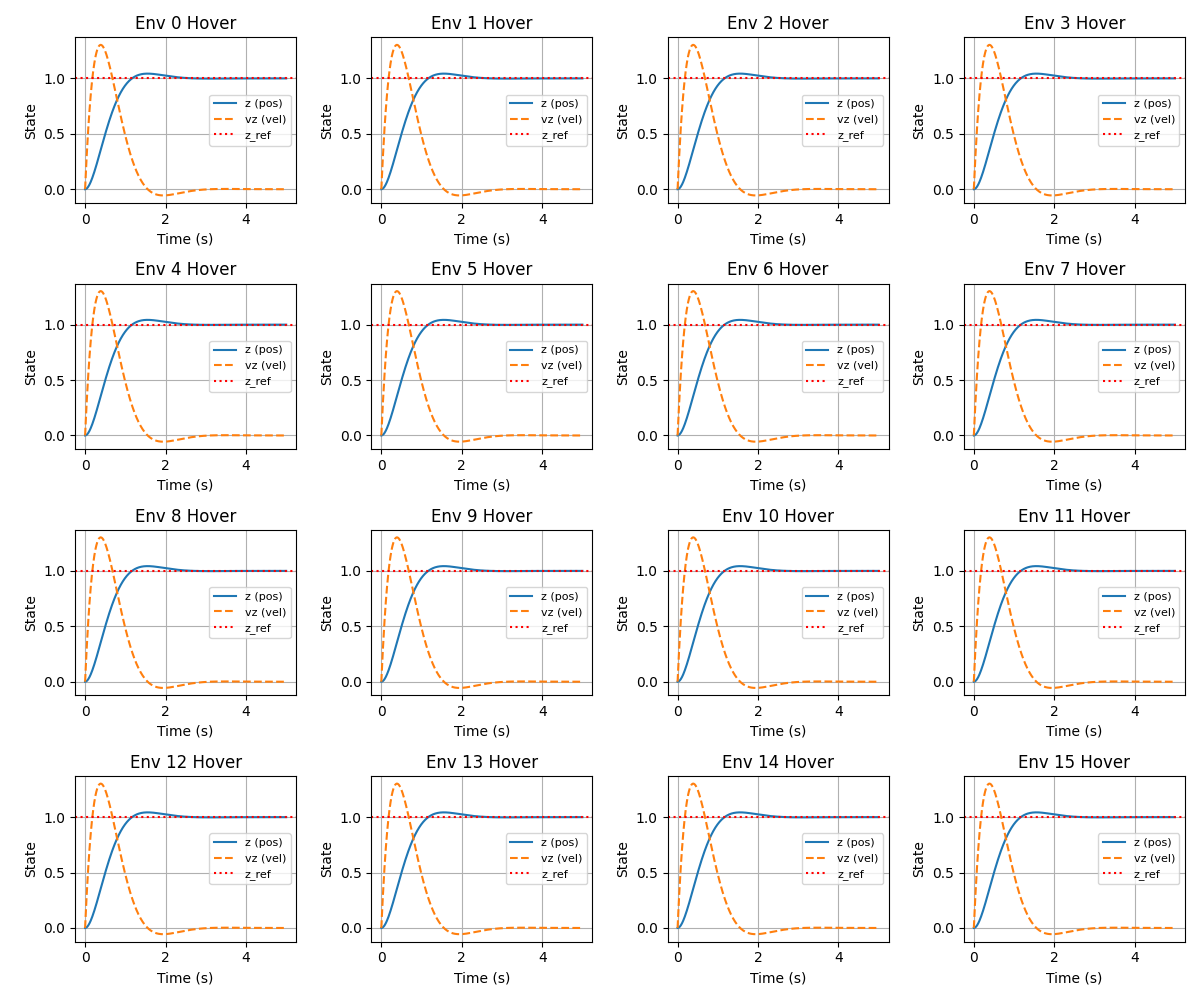
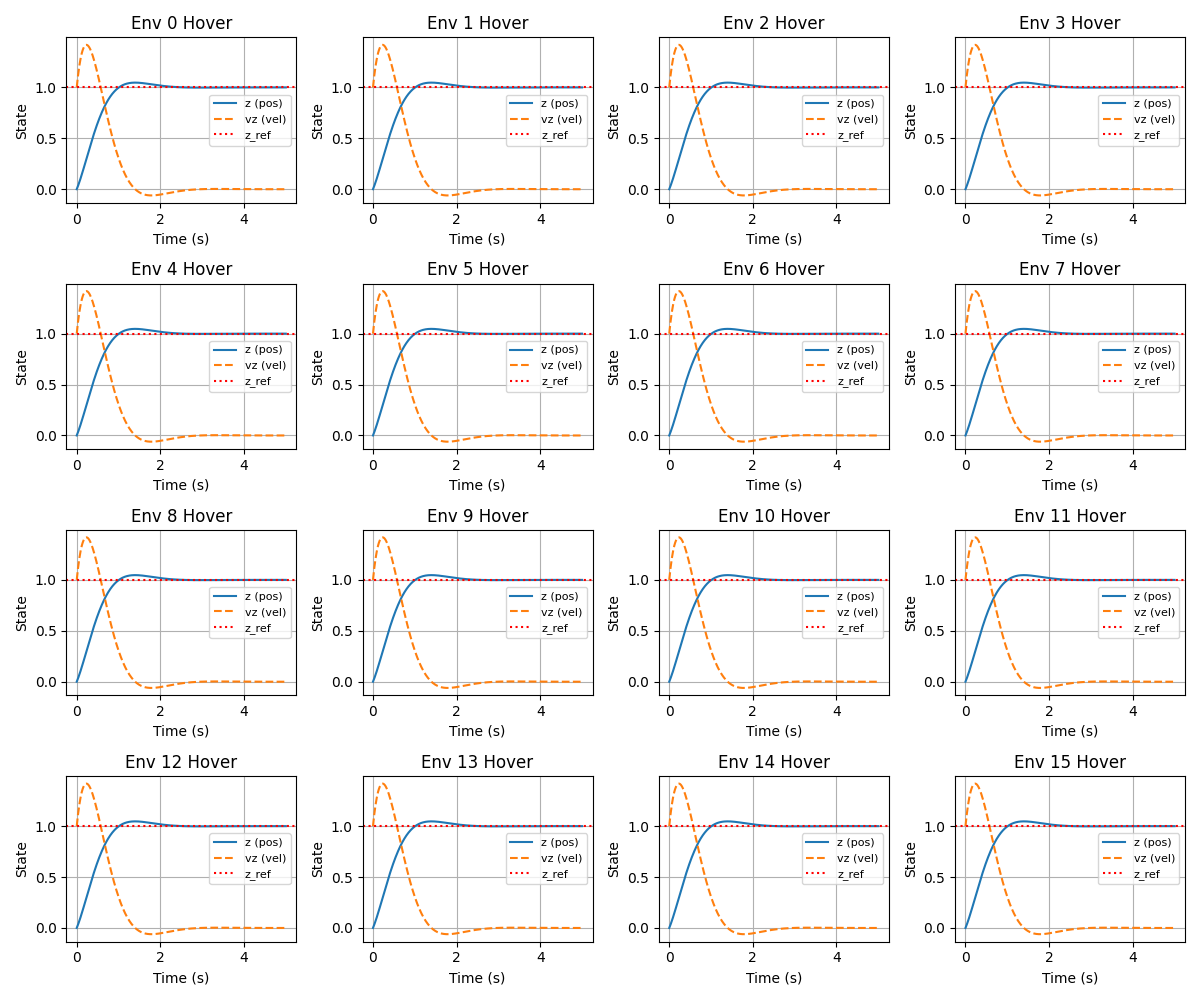
Add UAV geometric tracking example with PID-based control

diff --git a/examples/uav_geometric_tracking.py b/examples/uav_geometric_tracking.py
@@ -1,0 +1,167 @@
+"""
+uav_geometric_tracking.py
+Example: Geometric tracking control of a batch quadrotor UAV using NonlinearSystem and a geometric controller (PID-based outer loop).
+Tracks a circular trajectory in the xy-plane for all batch environments.
+"""
+
+import os
+import torch
+import numpy as np
+import matplotlib.pyplot as plt
+
+from torchcontrol.plants.nonlinear_system import NonlinearSystem
+from torchcontrol.plants.nonlinear_system_cfg import NonlinearSystemCfg, Parameters
+from torchcontrol.utils.math import quaternion_to_dcm
+from torchcontrol.controllers.pid import PID
+from torchcontrol.controllers.pid_cfg import PIDCfg
+from uav_thrust_descent_to_hover import uav_dynamics, uav_output
+
+class GeometricTrackingController(PID):
+    def __init__(self, m, g, dt, num_envs, device, kp=8.0, kd=4.0):
+        # PID config for position+velocity (outer loop)
+        state_dim = 3  # x, y, z
+        action_dim = 3  # a_des (x, y, z)
+        cfg = PIDCfg(
+            Kp=kp * torch.ones(action_dim),
+            Ki=torch.zeros(action_dim),
+            Kd=kd * torch.ones(action_dim),
+            u_ff=torch.zeros(action_dim),
+            num_envs=num_envs,
+            state_dim=state_dim,
+            action_dim=action_dim,
+            dt=dt,
+        )
+        super().__init__(cfg)
+        self.m = m
+        self.g = g
+        # Remove redundant .to(device) calls for Kp, Ki, Kd, u_ff
+        self.e3 = torch.tensor([0.0, 0.0, 1.0], device=device).expand(num_envs, 3)
+        self.kR = 4.0  # attitude gain
+
+    def step(self, x, v, q, x_ref, v_ref, a_ref, yaw_ref, yaw_rate_ref):
+        # Ensure all tensors are on the correct device
+        device = self.device
+        x = x.to(device)
+        v = v.to(device)
+        q = q.to(device)
+        x_ref = x_ref.to(device)
+        v_ref = v_ref.to(device)
+        a_ref = a_ref.to(device)
+        yaw_ref = yaw_ref.to(device)
+        yaw_rate_ref = yaw_rate_ref.to(device)
+        # 1. Outer loop: position+velocity PID to get a_des
+        a_fb = self.forward(x, x_ref) + self.Kd[0, 0] * (v_ref - v)  # batch PD
+        a_des = a_fb + self.g + a_ref  # (num_envs, 3)
+        # 2. Desired body z axis
+        b3_des = a_des / (a_des.norm(dim=1, keepdim=True) + 1e-6)
+        # 3. Desired body x axis from yaw
+        b1_des = torch.stack([torch.cos(yaw_ref), torch.sin(yaw_ref), torch.zeros_like(yaw_ref)], dim=1)
+        # 4. Desired body y axis
+        b2_des = torch.cross(b3_des, b1_des, dim=1)
+        b2_des = b2_des / (b2_des.norm(dim=1, keepdim=True) + 1e-6)
+        b1_des = torch.cross(b2_des, b3_des, dim=1)
+        # 5. Desired rotation matrix
+        R_des = torch.stack([b1_des, b2_des, b3_des], dim=2)  # (num_envs, 3, 3)
+        # 6. Current rotation matrix
+        R = quaternion_to_dcm(q)
+        # 7. Attitude error (SO(3) vee map)
+        e_R_mat = 0.5 * (torch.matmul(R_des.transpose(1,2), R) - torch.matmul(R.transpose(1,2), R_des))
+        e_R = torch.stack([e_R_mat[:,2,1], e_R_mat[:,0,2], e_R_mat[:,1,0]], dim=1)
+        # 8. Thrust (projected to body z)
+        F = (self.m * (a_des * (R @ self.e3.unsqueeze(2)).squeeze(2)).sum(dim=1)).clamp(min=0.0)
+        # 9. Omega_cmd (no feedforward, only feedback for hover/tracking)
+        omega_cmd = self.kR * e_R  # (num_envs, 3)
+        # 10. Output action
+        u = torch.zeros(self.num_envs, 4, device=self.device)
+        u[:, 0] = F
+        u[:, 1:4] = omega_cmd
+        return u
+
+if __name__ == "__main__":
+    # Batch grid size
+    height, width = 4, 4
+    num_envs = height * width
+    dt = 0.01
+    device = "cuda" if torch.cuda.is_available() else "cpu"
+    m = torch.full((num_envs,), 1.0, device=device)
+    g = torch.tensor([0.0, 0.0, -9.81], device=device).expand(num_envs, 3)
+    params = Parameters(m=m, g=g)
+    # Initial state: [x, y, z, vx, vy, vz, qw, qx, qy, qz]
+    initial_state = torch.zeros(num_envs, 10, device=device)
+    initial_state[:, 6] = 1.0  # Set quaternion to [1,0,0,0] for all envs
+    initial_state[:, 2] = 0.0  # z=0
+    initial_state[:, 0] = 1.0  # x=1 (start on circle)
+    # System configuration
+    cfg = NonlinearSystemCfg(
+        dynamics=uav_dynamics,
+        output=uav_output,
+        dt=dt,
+        num_envs=num_envs,
+        state_dim=10,
+        action_dim=4,
+        initial_state=initial_state,
+        params=params,
+        device=device,
+    )
+    print(f"\033[1;33mSystem configuration:\n{cfg}\033[0m")
+    plant = NonlinearSystem(cfg)
+    controller = GeometricTrackingController(m, g, dt, num_envs, device)
+    # Trajectory: circle in xy-plane, z=1.0
+    T = 10
+    steps = int(T / dt)
+    t_arr = torch.linspace(0, T, steps+1, device=device)
+    radius = 1.0
+    omega_traj = 2 * np.pi / T  # one circle in T seconds
+    x_ref = torch.stack([
+        radius * torch.cos(omega_traj * t_arr),
+        radius * torch.sin(omega_traj * t_arr),
+        torch.ones_like(t_arr)
+    ], dim=1)  # (steps+1, 3)
+    v_ref = torch.stack([
+        -radius * omega_traj * torch.sin(omega_traj * t_arr),
+        radius * omega_traj * torch.cos(omega_traj * t_arr),
+        torch.zeros_like(t_arr)
+    ], dim=1)
+    a_ref = torch.stack([
+        -radius * omega_traj**2 * torch.cos(omega_traj * t_arr),
+        -radius * omega_traj**2 * torch.sin(omega_traj * t_arr),
+        torch.zeros_like(t_arr)
+    ], dim=1)
+    yaw_ref = omega_traj * t_arr  # optional: face along tangent
+    yaw_rate_ref = torch.full_like(t_arr, omega_traj)
+    # Main simulation loop
+    y = [initial_state]
+    for k in range(steps):
+        x = y[-1][:, 0:3]
+        v = y[-1][:, 3:6]
+        q = y[-1][:, 6:10]
+        # batch reference for all envs
+        x_ref_batch = x_ref[k].unsqueeze(0).expand(num_envs, 3)
+        v_ref_batch = v_ref[k].unsqueeze(0).expand(num_envs, 3)
+        a_ref_batch = a_ref[k].unsqueeze(0).expand(num_envs, 3)
+        yaw_ref_batch = yaw_ref[k].repeat(num_envs)
+        yaw_rate_ref_batch = yaw_rate_ref[k].repeat(num_envs)
+        u = controller.step(x, v, q, x_ref_batch, v_ref_batch, a_ref_batch, yaw_ref_batch, yaw_rate_ref_batch)
+        output = plant.step(u)
+        y.append(output)
+    y = torch.stack(y, dim=1).cpu().numpy()  # [num_envs, steps+1, state_dim]
+    # Plotting results
+    save_dir = os.path.join(os.path.dirname(__file__), "results")
+    os.makedirs(save_dir, exist_ok=True)
+    fig, axes = plt.subplots(height, width, figsize=(12, 10))
+    for idx in range(num_envs):
+        i, j = np.unravel_index(idx, (height, width))
+        ax = axes[i, j]
+        ax.plot(y[idx, :, 0], y[idx, :, 1], label='xy (track)')
+        ax.plot(x_ref[:, 0].cpu(), x_ref[:, 1].cpu(), 'r--', label='xy_ref')
+        ax.set_title(f'Env {idx} Circle Track')
+        ax.set_xlabel('x (m)')
+        ax.set_ylabel('y (m)')
+        ax.axis('equal')
+        ax.grid()
+        ax.legend(fontsize=8)
+    plt.tight_layout()
+    fig_path = os.path.join(save_dir, "uav_geometric_tracking.png")
+    plt.savefig(fig_path)
+    print("Geometric tracking plot saved to:", fig_path)
+    print("\033[1;32mTracking test completed successfully.\033[0m")

diff --git a/examples/uav_geometric_hover.py b/examples/uav_geometric_hover.py
@@ -2,33 +2,16 @@
 uav_geometric_hover.py
 Example: Geometric hover control of a batch quadrotor UAV using NonlinearSystem and a simple geometric controller.
 """
+
 import os
 import torch
 import numpy as np
 import matplotlib.pyplot as plt
+
 from torchcontrol.plants.nonlinear_system import NonlinearSystem
 from torchcontrol.plants.nonlinear_system_cfg import NonlinearSystemCfg, Parameters
+from uav_thrust_descent_to_hover import uav_dynamics, uav_output  # Use absolute import for script execution
 
-def uav_dynamics(x, u, t, params):
-    # x: [num_envs, 7] (p[3], v[3], q[1])
-    # u: [num_envs, 4] (F, omega_x, omega_y, omega_z)
-    g = params.g  # [num_envs] or scalar
-    m = params.m  # [num_envs] or scalar
-    p = x[:, 0:3]  # position [num_envs, 3]
-    v = x[:, 3:6]  # velocity [num_envs, 3]
-    q = x[:, 6]    # yaw (not used)
-    F = u[:, 0]    # thrust [num_envs]
-    g = g if g.shape[0] == x.shape[0] else g.expand(x.shape[0])
-    m = m if m.shape[0] == x.shape[0] else m.expand(x.shape[0])
-    dp = v
-    dv = torch.zeros_like(v)
-    dv[:, 2] = F / m - g  # only z-axis affected by thrust
-    dq = torch.zeros_like(q)  # ignore rotation for hover
-    dx = torch.cat([dp, dv, dq.unsqueeze(1)], dim=1)
-    return dx
-
-def uav_output(x, u, t, params):
-    return x
 
 class GeometricHoverController:
     def __init__(self, m, g, dt, num_envs, device):
@@ -40,49 +23,71 @@ class GeometricHoverController:
         self.z_ref = torch.ones(num_envs, device=device) * 1.0  # hover at z=1.0
         self.kp = 8.0
         self.kd = 4.0
+
     def step(self, x):
-        # x: [num_envs, 7]
+        # x: [num_envs, 10]
         z = x[:, 2]
         vz = x[:, 5]
         e = self.z_ref - z
         de = -vz
-        u_thrust = self.m * (self.g + self.kp * e + self.kd * de)
+        # Use only z-axis gravity for thrust control
+        u_thrust = self.m * (self.g[:, 2].abs() + self.kp * e + self.kd * de)
         u = torch.zeros(self.num_envs, 4, device=self.device)
         u[:, 0] = u_thrust
         return u
 
+
 if __name__ == "__main__":
+    # Batch grid size
     height, width = 4, 4
     num_envs = height * width
     dt = 0.01
     device = "cuda" if torch.cuda.is_available() else "cpu"
+
+    # UAV parameters (consistent with uav_thrust_descent_to_hover.py)
     m = torch.full((num_envs,), 1.0, device=device)
-    g = torch.full((num_envs,), 9.81, device=device)
+    # Define gravity as a 3D vector and broadcast to (num_envs, 3)
+    g = torch.tensor([0.0, 0.0, -9.81], device=device).expand(num_envs, 3)
     params = Parameters(m=m, g=g)
-    initial_state = torch.zeros(num_envs, 7, device=device)
+
+    # Initial state: [x, y, z, vx, vy, vz, qw, qx, qy, qz]
+    initial_state = torch.zeros(num_envs, 10, device=device)
+    initial_state[:, 6] = 1.0  # Set quaternion to [1,0,0,0] for all envs
+    initial_state[:, 5] = 1.0  # Set initial vz = 1.0 m/s for all envs (to see response)
+
+    # System configuration
     cfg = NonlinearSystemCfg(
         dynamics=uav_dynamics,
         output=uav_output,
         dt=dt,
         num_envs=num_envs,
-        state_dim=7,
+        state_dim=10,
         action_dim=4,
         initial_state=initial_state,
         params=params,
         device=device,
     )
+    print(f"\033[1;33mSystem configuration:\n{cfg}\033[0m")
+
     plant = NonlinearSystem(cfg)
     controller = GeometricHoverController(m, g, dt, num_envs, device)
+
+    # Simulation parameters
     T = 5
     steps = int(T / dt)
     t_arr = [0.0]
     y = [initial_state]
+
+    # Main simulation loop
     for k in range(steps):
         u = controller.step(y[-1])
         output = plant.step(u)
         y.append(output)
         t_arr.append(t_arr[-1] + dt)
+
     y = torch.stack(y, dim=1).cpu().numpy()  # [num_envs, steps+1, state_dim]
+
+    # Plotting results
     save_dir = os.path.join(os.path.dirname(__file__), "results")
     os.makedirs(save_dir, exist_ok=True)
     fig, axes = plt.subplots(height, width, figsize=(12, 10))
